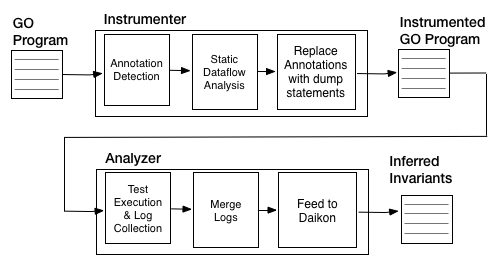
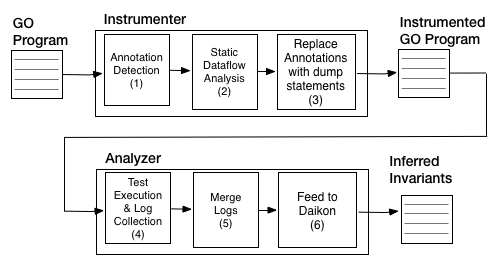
minor edits

diff --git a/Doc/approach.tex b/Doc/approach.tex
@@ -93,7 +93,7 @@ the developer as interesting points without wasting resources
 analyzing useless program points. The annotations will be identified
 by the parser at the instrumentation phase and re-written to include
 statements which will write the values of variable to a file when the
-program reaches that point in the runtime. Since there can be multiple points annotated in a program by a
+program reaches that point in the runtime. The annotation detection is shown in Block 1 of the flow diagram in Figure~\ref{fig:go_flow}. Re-writing the source is done at the Block 3 of the flow diagram in Figure~\ref{fig:go_flow}. Since there can be multiple points annotated in a program by a
 developer, vector clocks will be used to partially order annotation
 pairs in the two programs.% This will also help to invalidate
 % annotations inserted at irrelevant locations by the developer.
@@ -103,7 +103,7 @@ pairs in the two programs.% This will also help to invalidate
 Even at interesting program points, variable space that need to be
 captured is very large and also we want to filter out irrelevant invariants by only considering variables that affect each other for invariant detection phase. So only the variables that were affected by
 the communication with other nodes need to be identified (distributed state variables).  To detect
-these variables, some form of data and control flow analysis is required. For example using a backward flow analysis on Listing~\ref{lst:node1} we can say that \texttt{sum} variable at line 4 and line 5 is affected by the \texttt{buf} variable and receive function at line 1. Note that \texttt{sum} variable is part of distributed state of the system, since its value is affected by a receive function and affects a send function, so it is possibly affected and affects variables in other nodes of the system (here it is affected variables \texttt{a} and \texttt{b} and affects \texttt{result} in Node 0). To compute these distributed state variables, we developed a Go program slicer which we explain in the following section.
+these variables, some form of data and control flow analysis is required. For example using a backward flow analysis on Listing~\ref{lst:node1} we can say that \texttt{sum} variable at line 4 and line 5 is affected by the \texttt{buf} variable and receive function at line 1. Note that \texttt{sum} variable is part of distributed state of the system, since its value is affected by a receive function and affects a send function, so it is possibly affected and affects variables in other nodes of the system (here it is affected variables \texttt{a} and \texttt{b} and affects \texttt{result} in Node 0). To compute these distributed state variables, we developed a Go program slicer which we explain in the following section. This dataflow analysis phase is shown in Block 2 of the flow diagram in Figure~\ref{fig:go_flow}.
 
 \subsubsection{Go Program Slicer}
 
@@ -220,7 +220,7 @@ these variables, some form of data and control flow analysis is required. For ex
 
 \subsection{Matching Logs with Vector Clocks and Feeding to Invariant Detector}
 
-Having the set of distributed state variables at each annotated point in the program by control and data flow analysis, we instrument the program so as to log these variables at the specified points. While logging variables, we also log the vector clock at the annotated point, this help us to match immediate logs across two nodes with each other and merge the logs and make a global snapshot of the system to form a consistent cut. We also log the type of each variable, so we can recover these variables from log file. Then, we convert each merged log to the specific format to be used as input for Daikon invariant detector and run the Daikon.
+Having the set of distributed state variables at each annotated point in the program by control and data flow analysis, we instrument the program so as to log these variables at the specified points. While logging variables, we also log the vector clock at the annotated point, this help us to match immediate logs across two nodes with each other and merge the logs and make a global snapshot of the system to form a consistent cut. We also log the type of each variable, so we can recover these variables from log file. Then, we convert each merged log to the specific format to be used as input for Daikon invariant detector and run the Daikon. This log merging is done at the Block 5 of the flow diagram in Figure~\ref{fig:go_flow}.
 
 
 

diff --git a/Doc/evalrelate.tex b/Doc/evalrelate.tex
@@ -12,7 +12,7 @@ Go program slicer is built on top of CFG and reaching definitions computed as pa
 
 \subsubsection{Log Merger}
 
-We used go vector clocks \cite{vclock} to keep track of vector clocks and also our merge functionality is built on top of this implementation. 
+In this phase we use \texttt{encoding/gob} package to decode data items corresponding to each program point written to the log. We used go vector clocks \cite{vclock} to keep track of vector clocks and also our merge functionality is built on top of this implementation. 
 
 
 \section{Evaluation}
